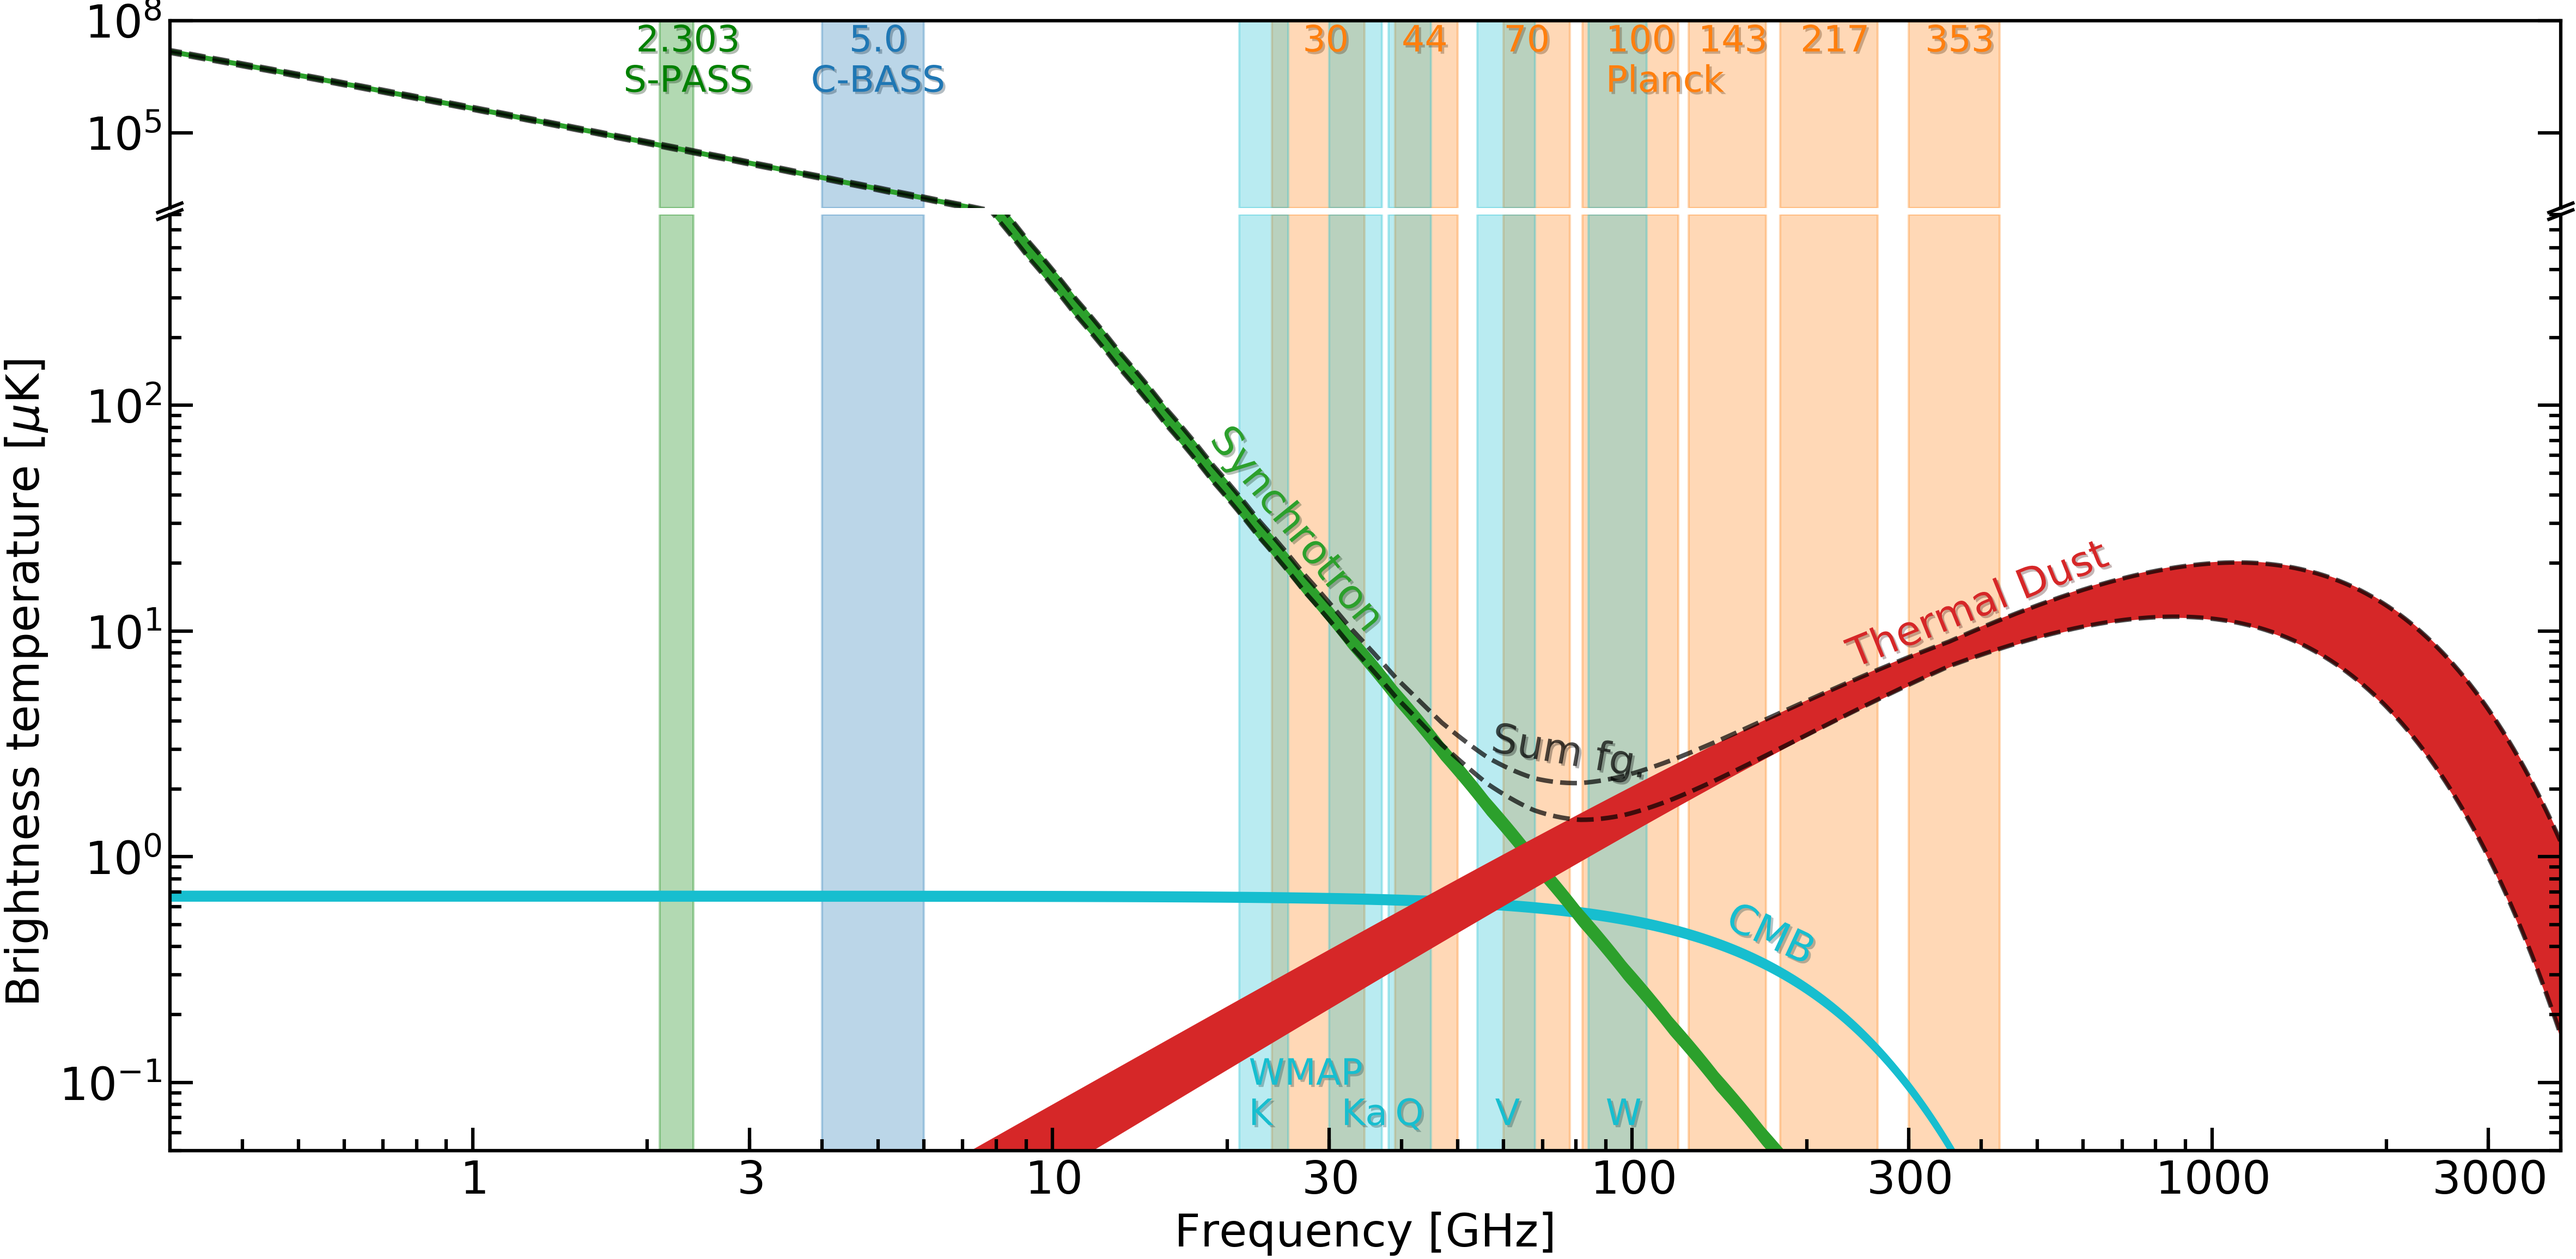
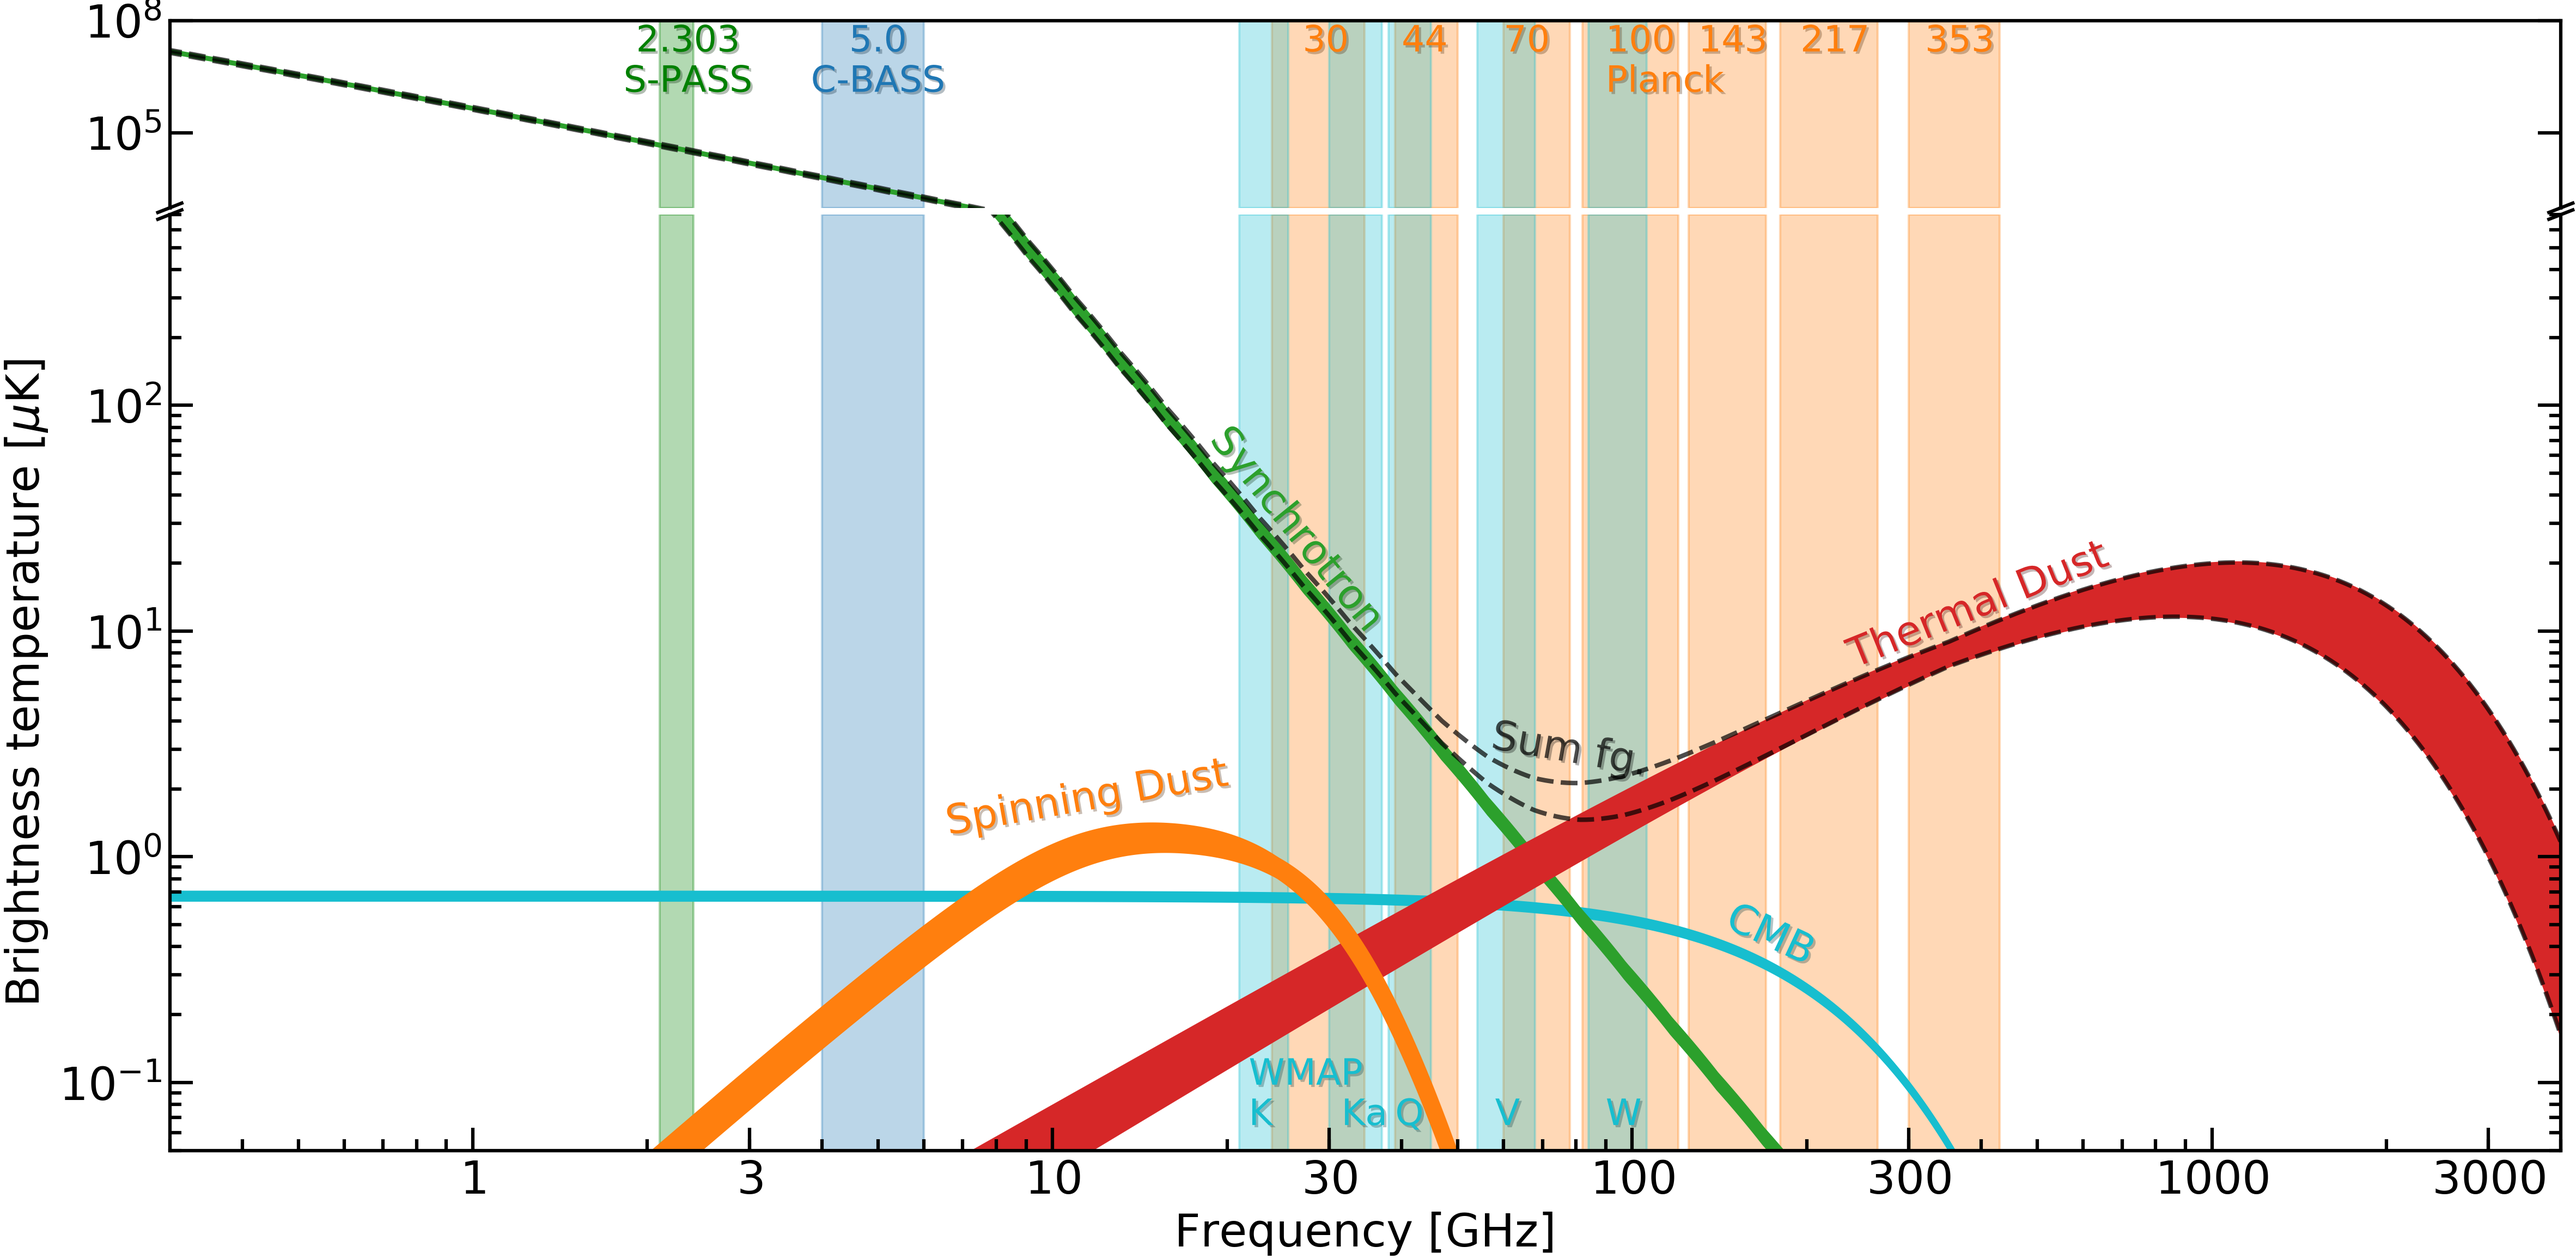
Polarized ame

diff --git a/spectrum.py b/spectrum.py
@@ -254,18 +254,18 @@ if pol:
     #SYNC  = sync( nu*1e9, 12,1., nuref=30.)
     #TDUST = tdust(nu*1e9, 8, 1.51,21.,nuref=353. )
     
-    sumf = SYNC+TDUST
-    fgs=[CMB,SYNC,TDUST]
-    col=["C9","C2","C3","C7"]
-    label=["CMB", "Synchrotron","Thermal Dust", "Sum fg."]
+    sumf = SYNC+TDUST+SDUST*0.01
+    fgs=[CMB,SYNC,TDUST,SDUST*0.01]
+    col=["C9","C2","C3","C1","C7"]
+    label=["CMB", "Synchrotron","Thermal Dust", "Spinning Dust", "Sum fg."]
     if long:
-        rot=[-25, -51,22, -10] 
-        idx=[70, -120,  115, -15]
-        scale=[0.05, 0, 13.5, 2]
+        rot=[-25, -51, 22, 10, -10] 
+        idx=[70, -120,  115, -215, -15]
+        scale=[0.05, 0, 13.5, 1.5, 3]
     else:
-        rot=[-20, -45, 18, -10]
-        idx=[70, -120,  115, -15]
-        scale=[0.05, 0, 10, 2]
+        rot=[-20, -45, 18, -15, -10]
+        idx=[70, -120,  115, -145, -15]
+        scale=[0.05, 0, 10, 0.5, 3]
 
 
 else:
